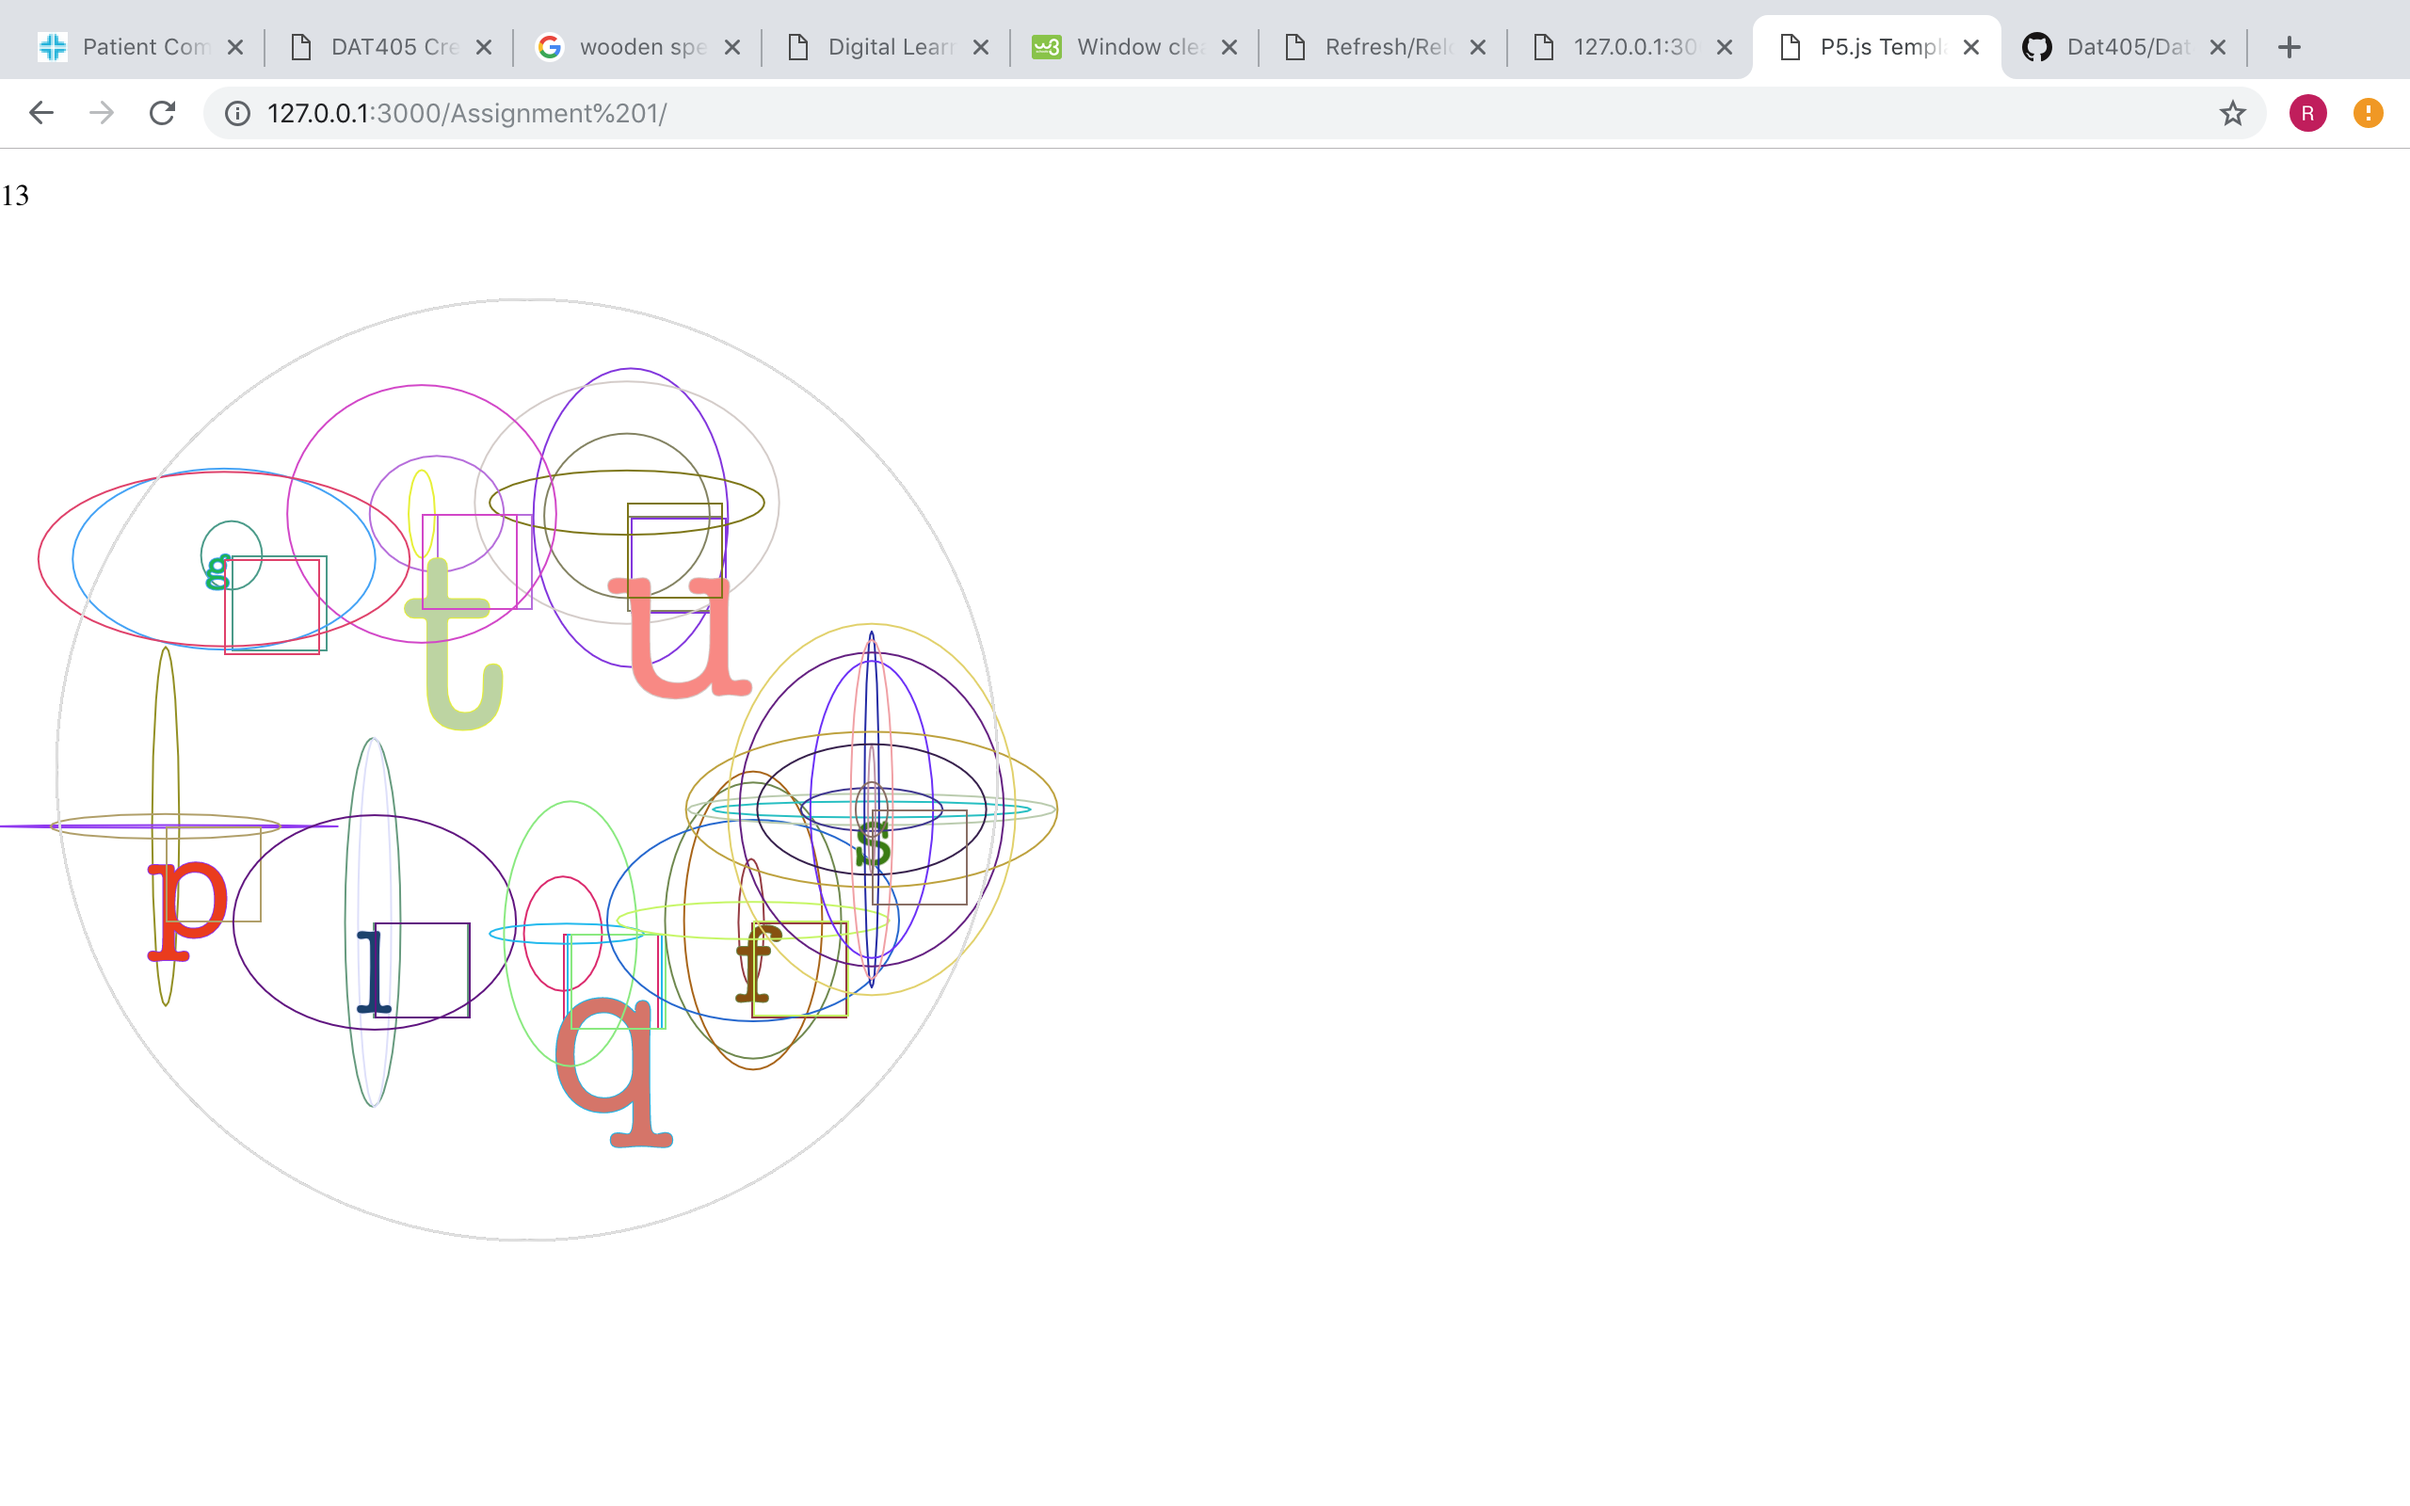
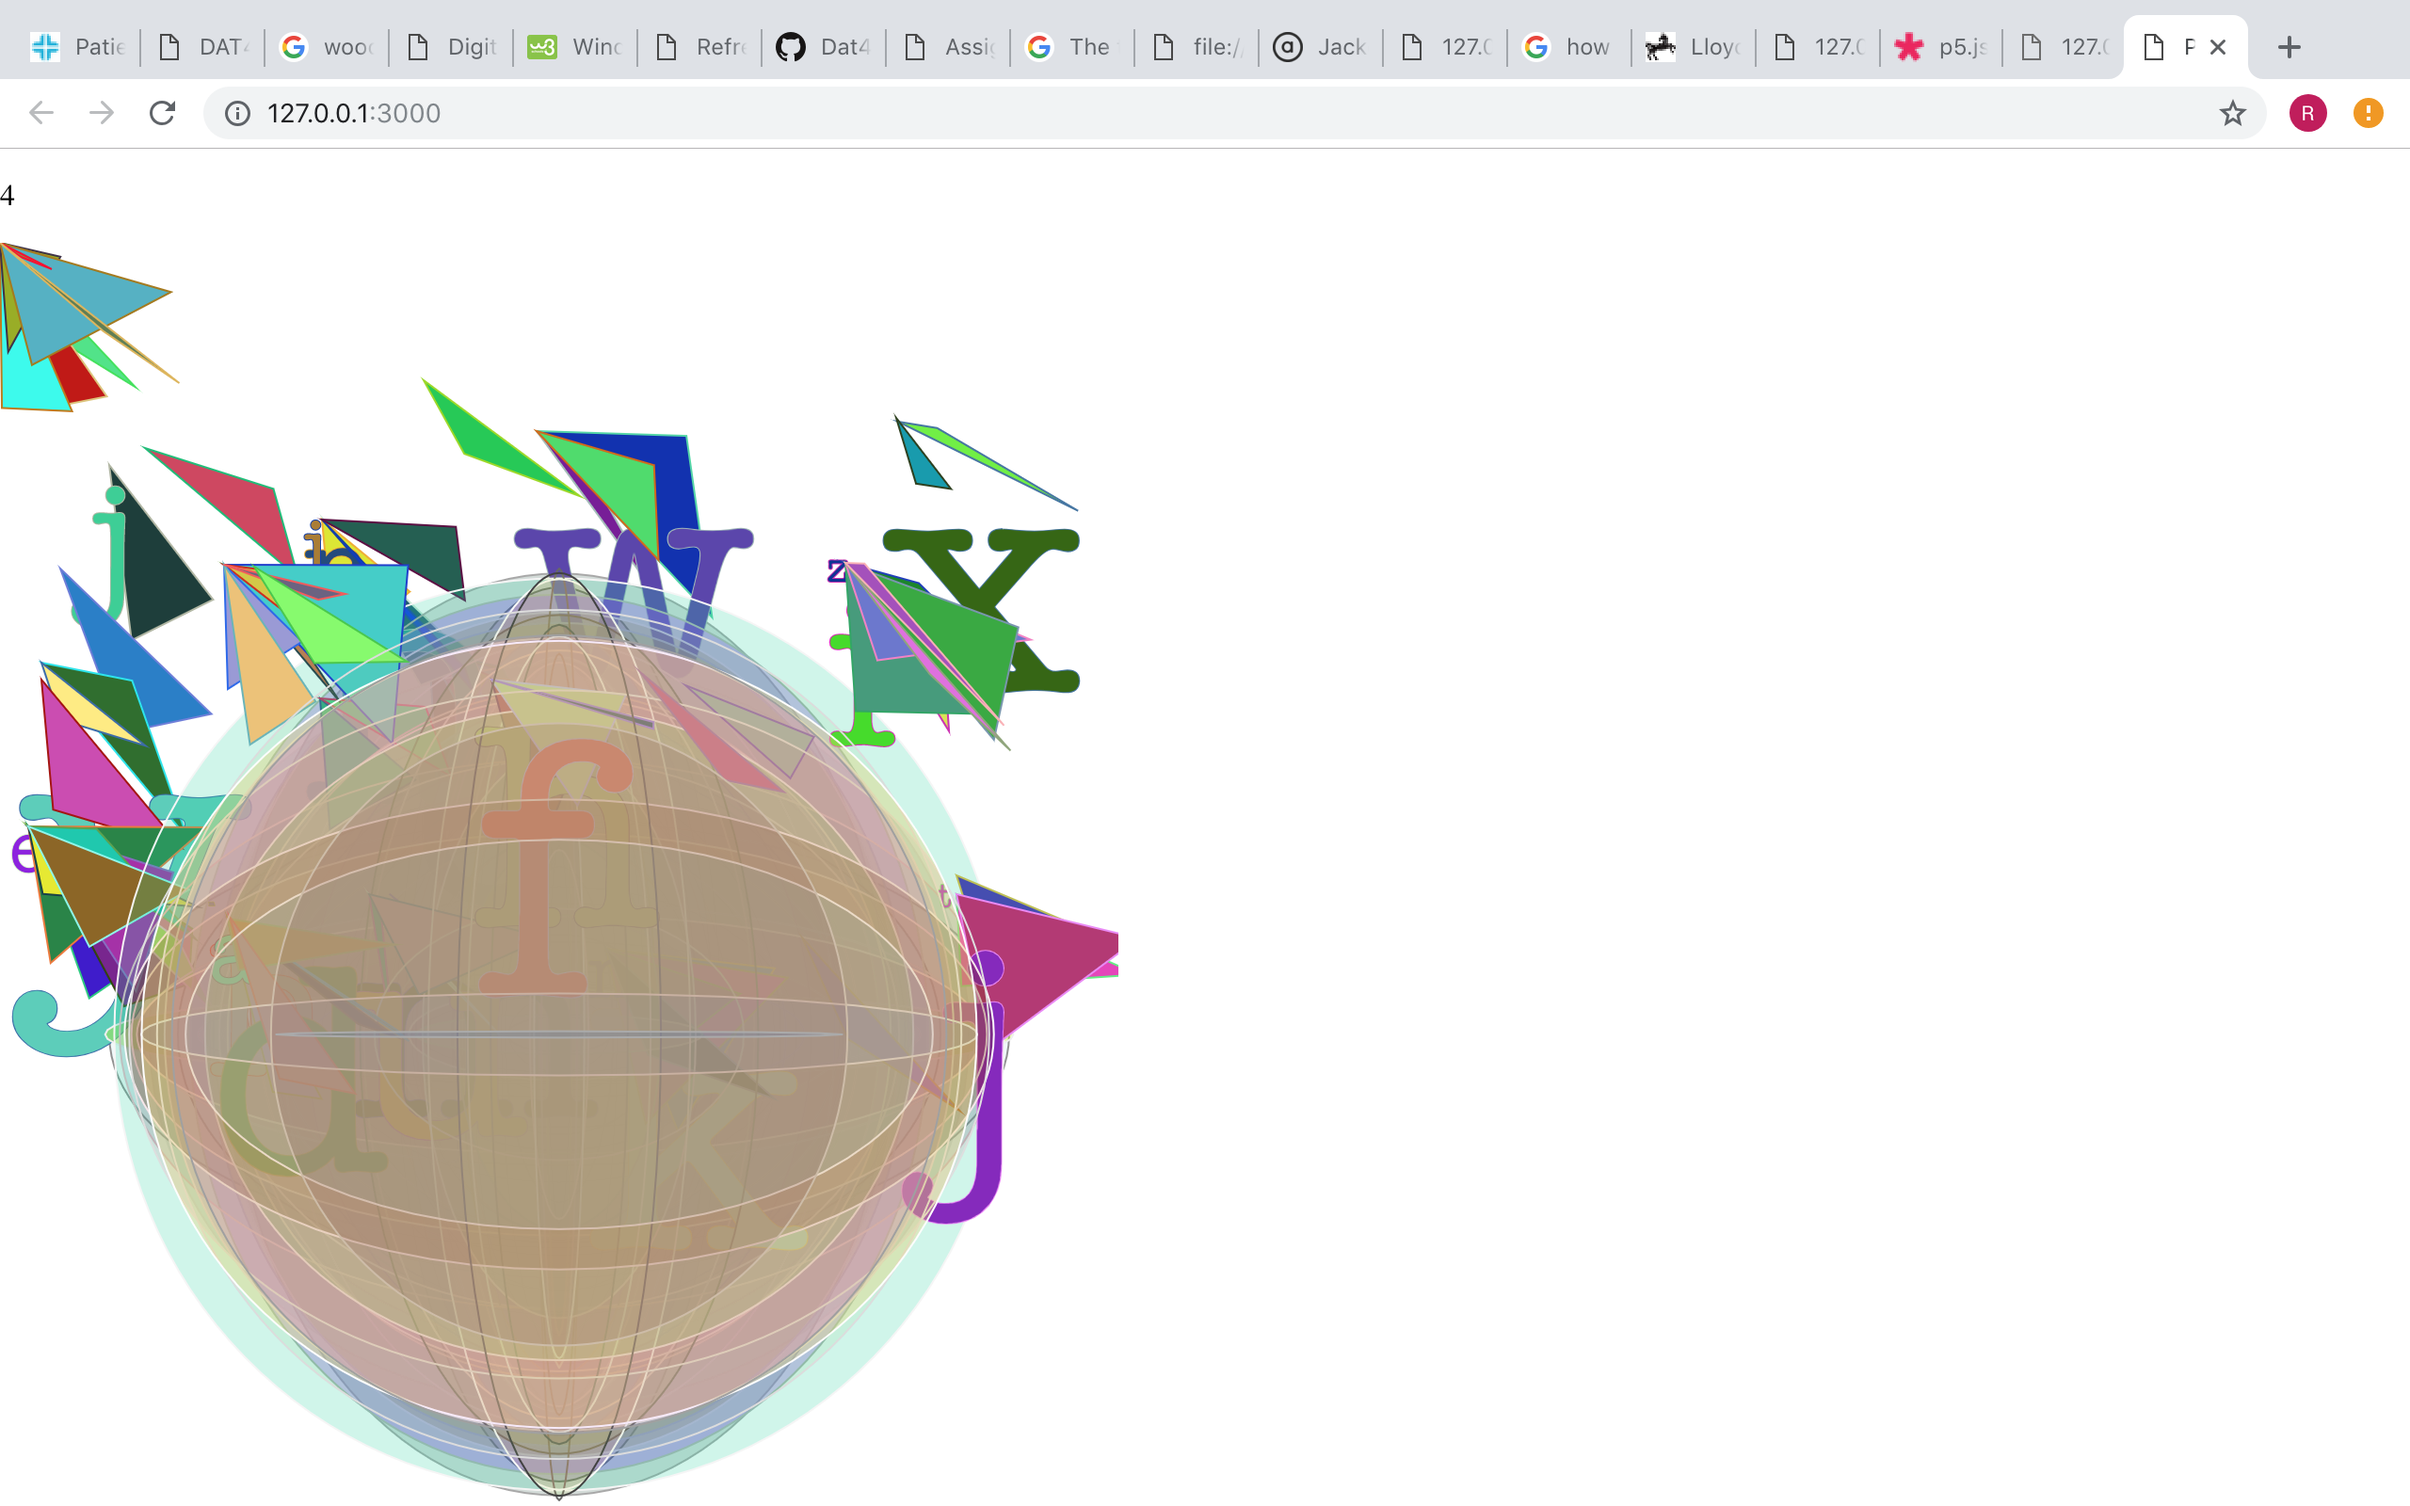
bvbv

diff --git a/Dat405/Assignment1/Assignment 1/Assignment 1/sketch.js b/Dat405/Assignment1/Assignment 1/Assignment 1/sketch.js
@@ -1,48 +1,47 @@
 //courseworkfinal
-//random letter & shape faller
+//random letters and shapes
 var alphabet=["a","b","c","d","e","f","g","h","i","j","k","l","m","n","o","p","q","r","s","t","u","v","w","x","y","z"];
 //this is my array to choose the random letter from
 var counter = 0; //Counting in seconds
 var countdown = 20; //Counting down variable, start at 10
-//var interval = setInterval();
 function setup(){
   createCanvas(594,841); //size of the frame
   frameRate(5);//frame rate
   var timer=select('#timer'); //using a timer which is put into the index
   timer.html(countdown-counter); //starting from 10,going down 1 second at a time to 0
   var interval =  setInterval(timeIt, 1000); //1000 is the amount of miliseconds in 1 sec
-function timeIt(){ //timing function
-  counter++; //counting a second at a time
-  timer.html(countdown-counter); //counting down from 10, by 1 each time
-  if (counter ==countdown){//once we get to zero the timer stops
-
-  clearInterval(interval);//stops timer
-  }
+  function timeIt(){ //timing function
+    counter++; //counting a second at a time
+    timer.html(countdown-counter); //counting down from 10, by 1 each time
+    if (counter ==countdown){//once we get to zero the timer stops
+      clearInterval(interval);//stops timer
+    }
   }
 }
 window.onload = setupRefresh;//when we refresh
-
 function setupRefresh() { //setup to refresh the page
-      setTimeout("refreshPage();", 20000); // when timer gets to 10000miliseconds
-    }                                    //the page refreshes
-    function refreshPage() { //function name refresh page
-       window.location = location.href; //refreshes the window
-    }
+  setTimeout("refreshPage();", 20000); // when timer gets to 10000miliseconds
+}                                    //the page refreshes
+function refreshPage() { //function name refresh page
+  window.location = location.href; //refreshes the window
+}
 
+function trigl(x, y){ //creating the triangles which hover when the mouse moves
+  stroke(random(255),random(255),random(255));//random colours of stroke
+  strokeWeight(1);//stroke weight is constantly at 1pt
+  fill(random(255),random(255),random(255));//random rgb colours
+  triangle(x, y, x+random(100), y+random(100), x+random(100), y+random(100));//mouse positions
+
+}
 function draw(){ //drawing our programme
-
   stroke(random(255,random(255),random(255))); //random stroke colours in rgb colour scheme
   textSize((random(200))); //text size random up to 200pts
   textFont("American Typewriter"); //declaring our font as american typewriter
-  fill (random(255),random(255),random(255)); //filling font in random rgb colours
+  fill (random(255),random(255),random(255),random(100)); //filling circles in random rgb colours with low opacity
   stroke(random(255,random(255),random(255))); //outline of text is random rgb cololurs
-  noFill();//no colour in our large circle or smaller circles or squares
-  ellipse(280,280,500,500); //large circle stays the same size and same position constantly
-  stroke(random(255),random(255),random(255));
-  var shape1=ellipse(mouseX,mouseY,random(200),random(200)); //first shape is a circle at the point of the mouse position, random size
-  var shape2=rect(mouseX,mouseY,50,50);//second variable shape is a square, which appears on mouse position size 50,50
+  ellipse(width/2,height/2,random(500),random(500)); //circle same position but random sizes
+  trigl(mouseX,mouseY,random(50),random(50));//triangles appear where the mouse hovers over
 }
-
 function mouseClicked(){ //what happens when the mouse is clicked
   var r=random(0,25); //variable for the random letters of the alphabetarray, assigned 0 to 25
   fill(random(255),random(255),random(255)); //fill with random rgb colours
